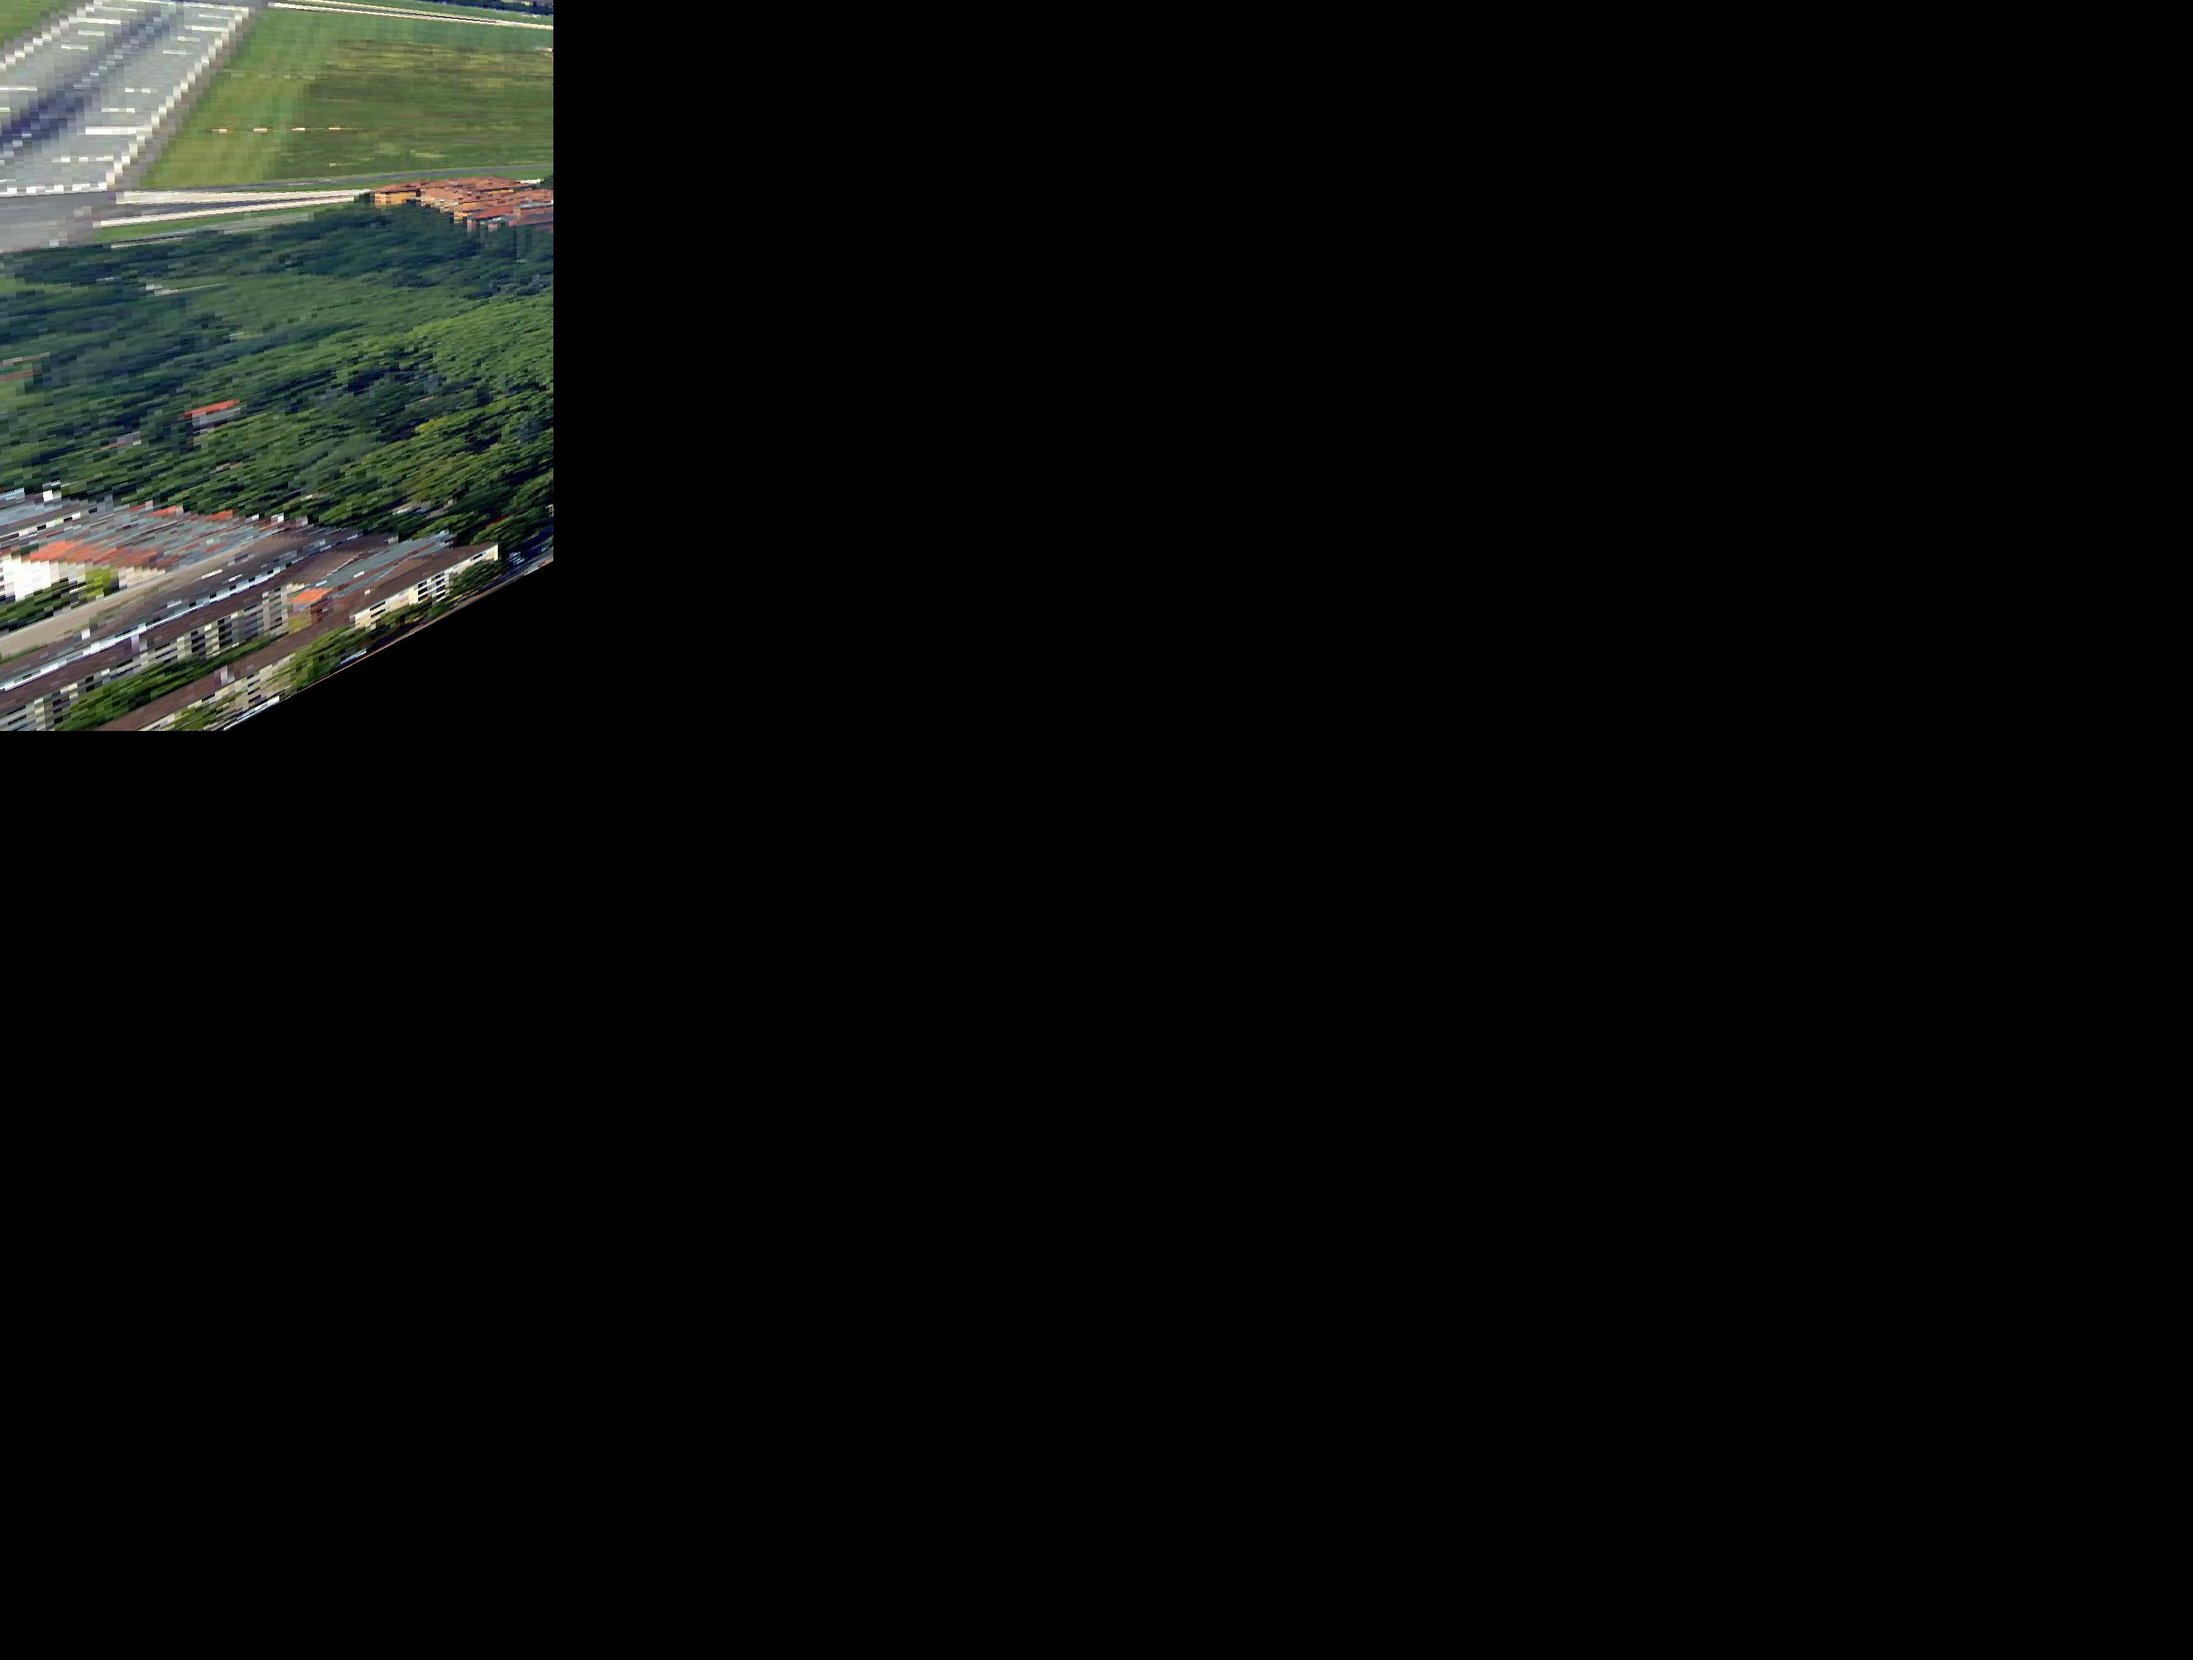
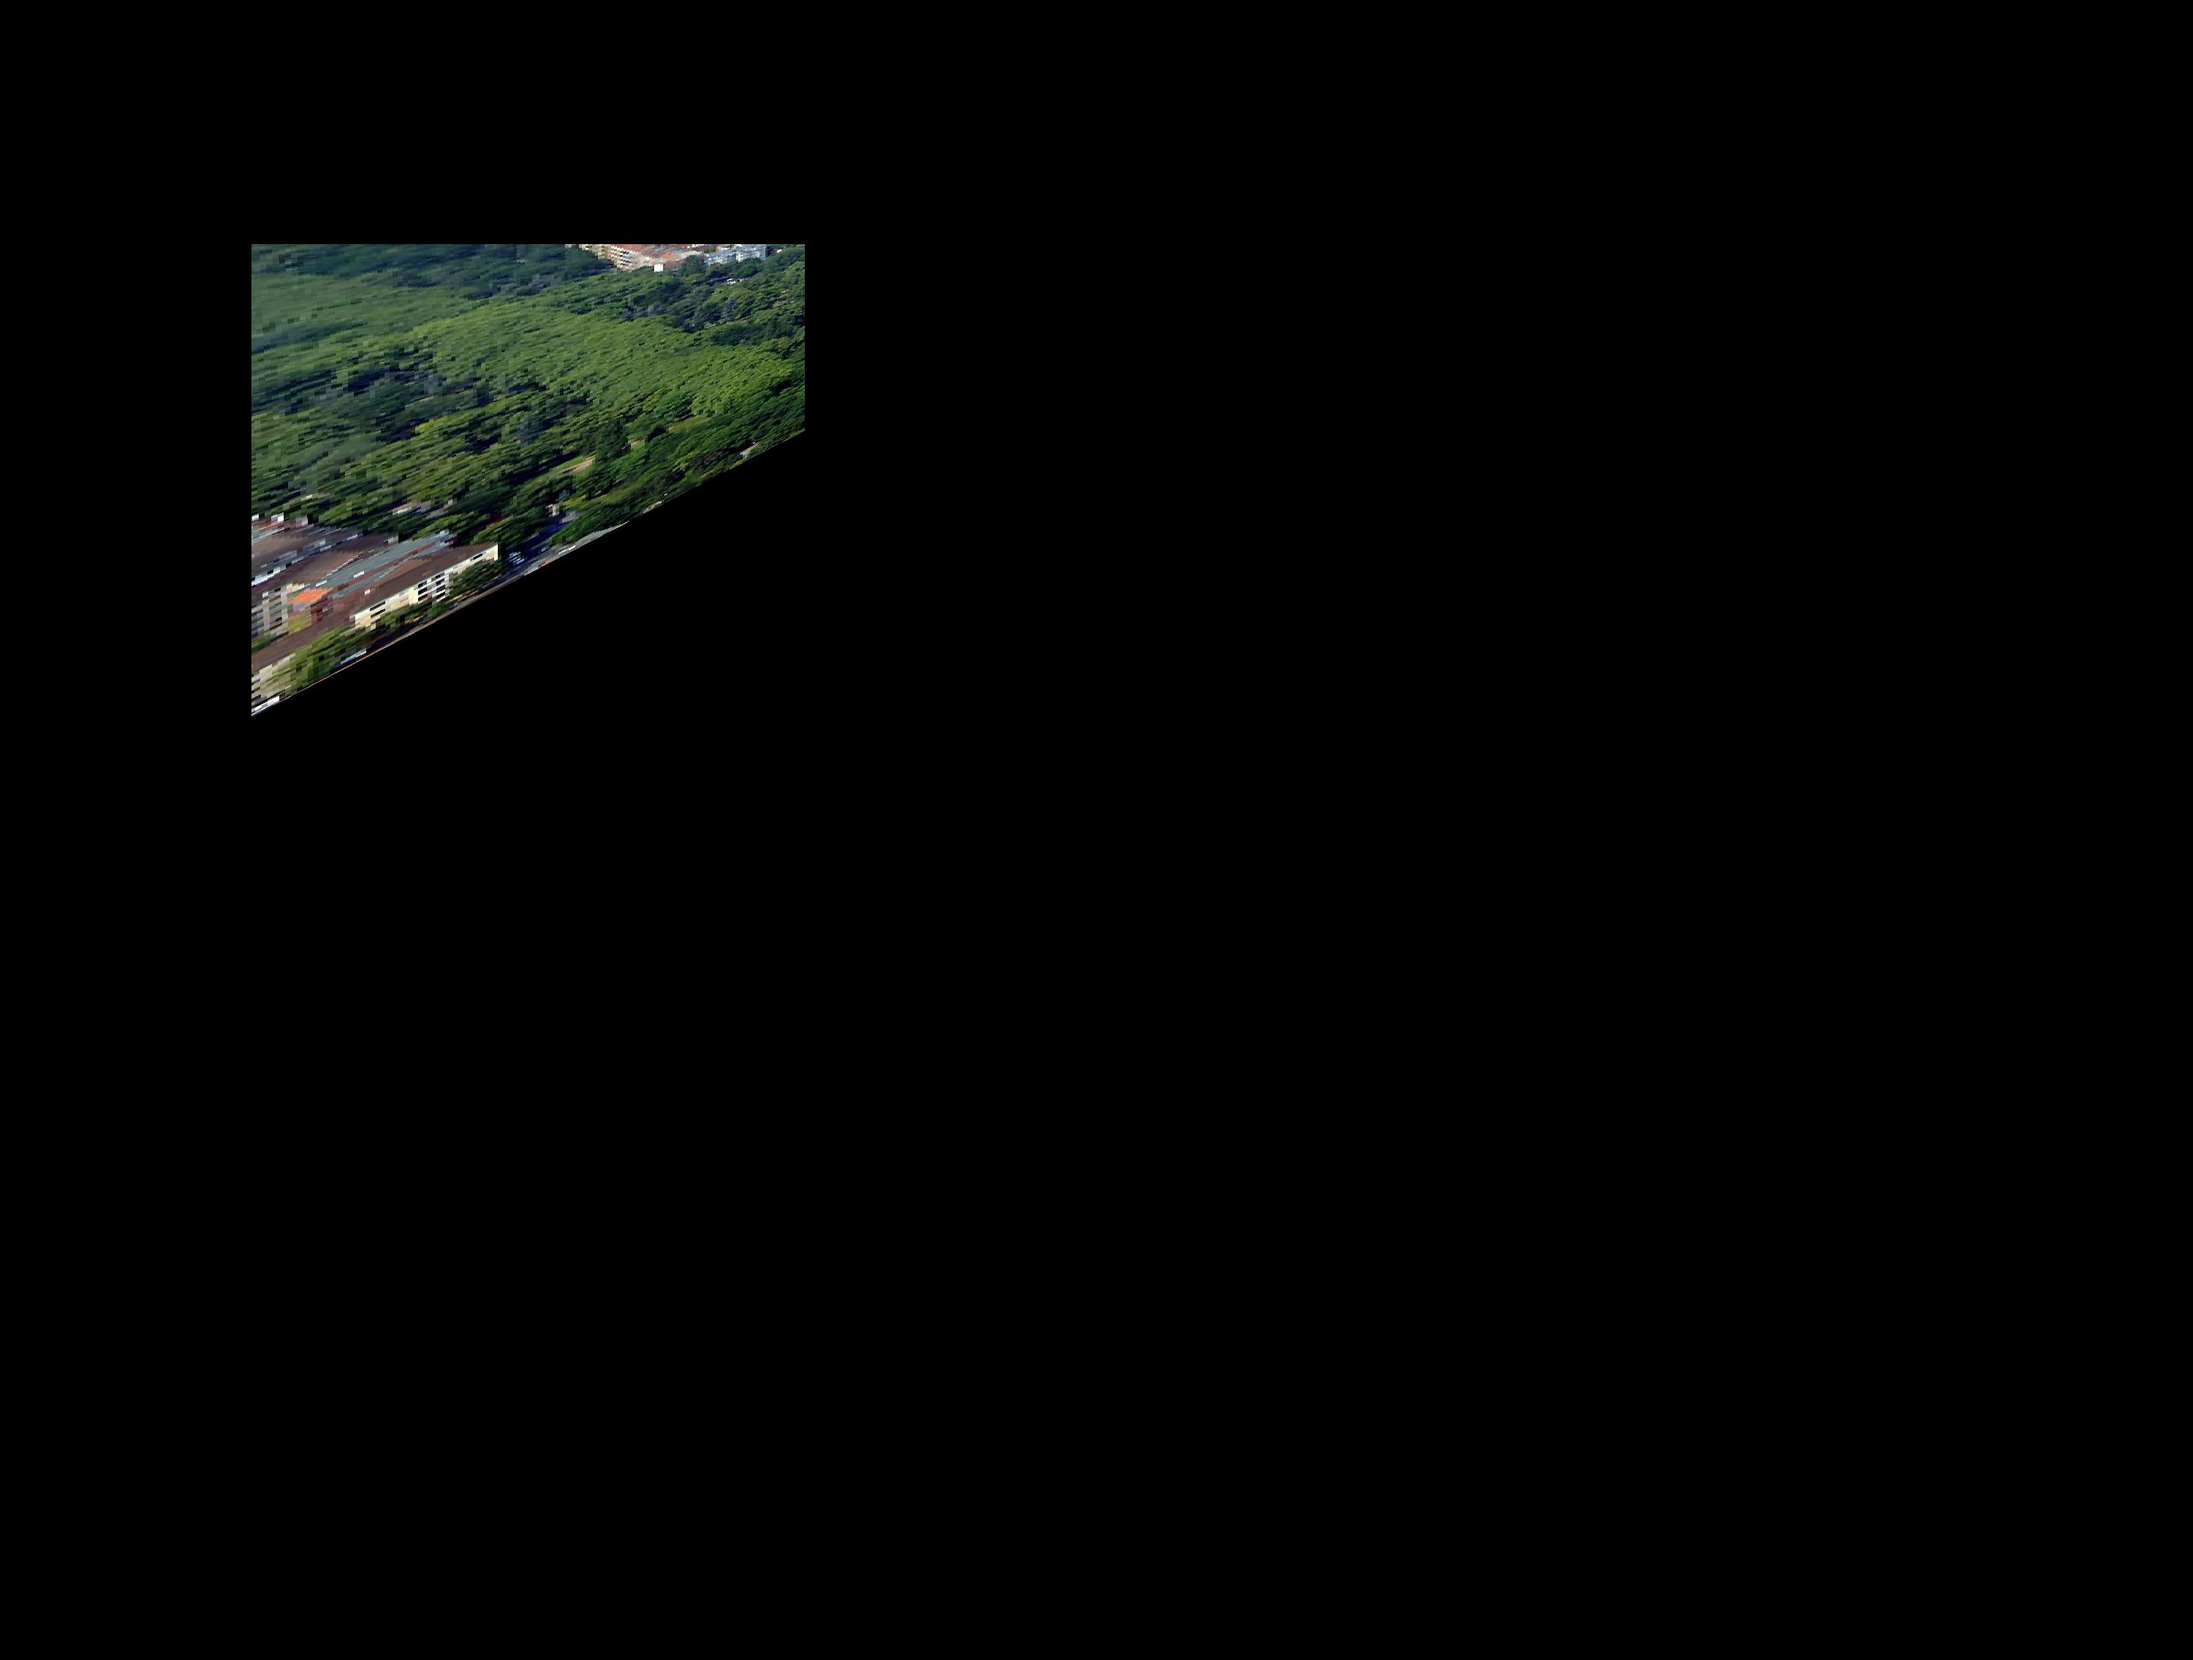
test

Changed region(s): [[0.0, 0.0, 0.372, 0.4624]]

diff --git a/Uebung/Uebung2/src/exercise2.py b/Uebung/Uebung2/src/exercise2.py
@@ -75,18 +75,26 @@ def b1():
     c2 = a[7]
 
 
-    for y_old in np.arange(0, image.shape[0]):
-        for x_old in np.arange(0, image.shape[1]):
+    for x_old in np.arange(0, image.shape[0]):
+        for y_old in np.arange(0, image.shape[1]):
 
-            denominator = (b1*c2 - b2*c1)*x_old + (a2*c1 - a1*c2)*y_old + a1*b2 - a2*b1
-            new_x = ((b2 - c2*b3)*x_old + (a3*c2 - a2)*y_old + a2*b3 - a3*b2)/denominator
-            new_y = ((b3*c1 - b1)*x_old + (a1 - a3*c1)*y_old + a3*b1 - a1*b3)/denominator
+            #x_new = x_old + pass_point_1_x
+            #y_new = y_old + pass_point_1_y
+
+            x_new = x_old
+            y_new = y_old
+
+            denominator = (b1*c2 - b2*c1)*y_new + (a2*c1 - a1*c2)*x_new + a1*b2 - a2*b1
+            new_x = ((b2 - c2*b3)*y_new + (a3*c2 - a2)*x_new + a2*b3 - a3*b2)/denominator
+            new_y = ((b3*c1 - b1)*y_new + (a1 - a3*c1)*x_new + a3*b1 - a1*b3)/denominator
+
+
 
             if new_x > 0 and new_y > 0 and new_x < image.shape[0] and new_y < image.shape[1]:
 
-                new_image[x_old, y_old, 0] = image[new_x, new_y, 0]
-                new_image[x_old, y_old, 1] = image[new_x, new_y, 1]
-                new_image[x_old, y_old, 2] = image[new_x, new_y, 2]
+                new_image[y_new, x_new, 0] = image[new_x, new_y, 0]
+                new_image[y_new, x_new, 1] = image[new_x, new_y, 1]
+                new_image[y_new, x_new, 2] = image[new_x, new_y, 2]
 
     imsave("../images/test.jpg", new_image)
 
